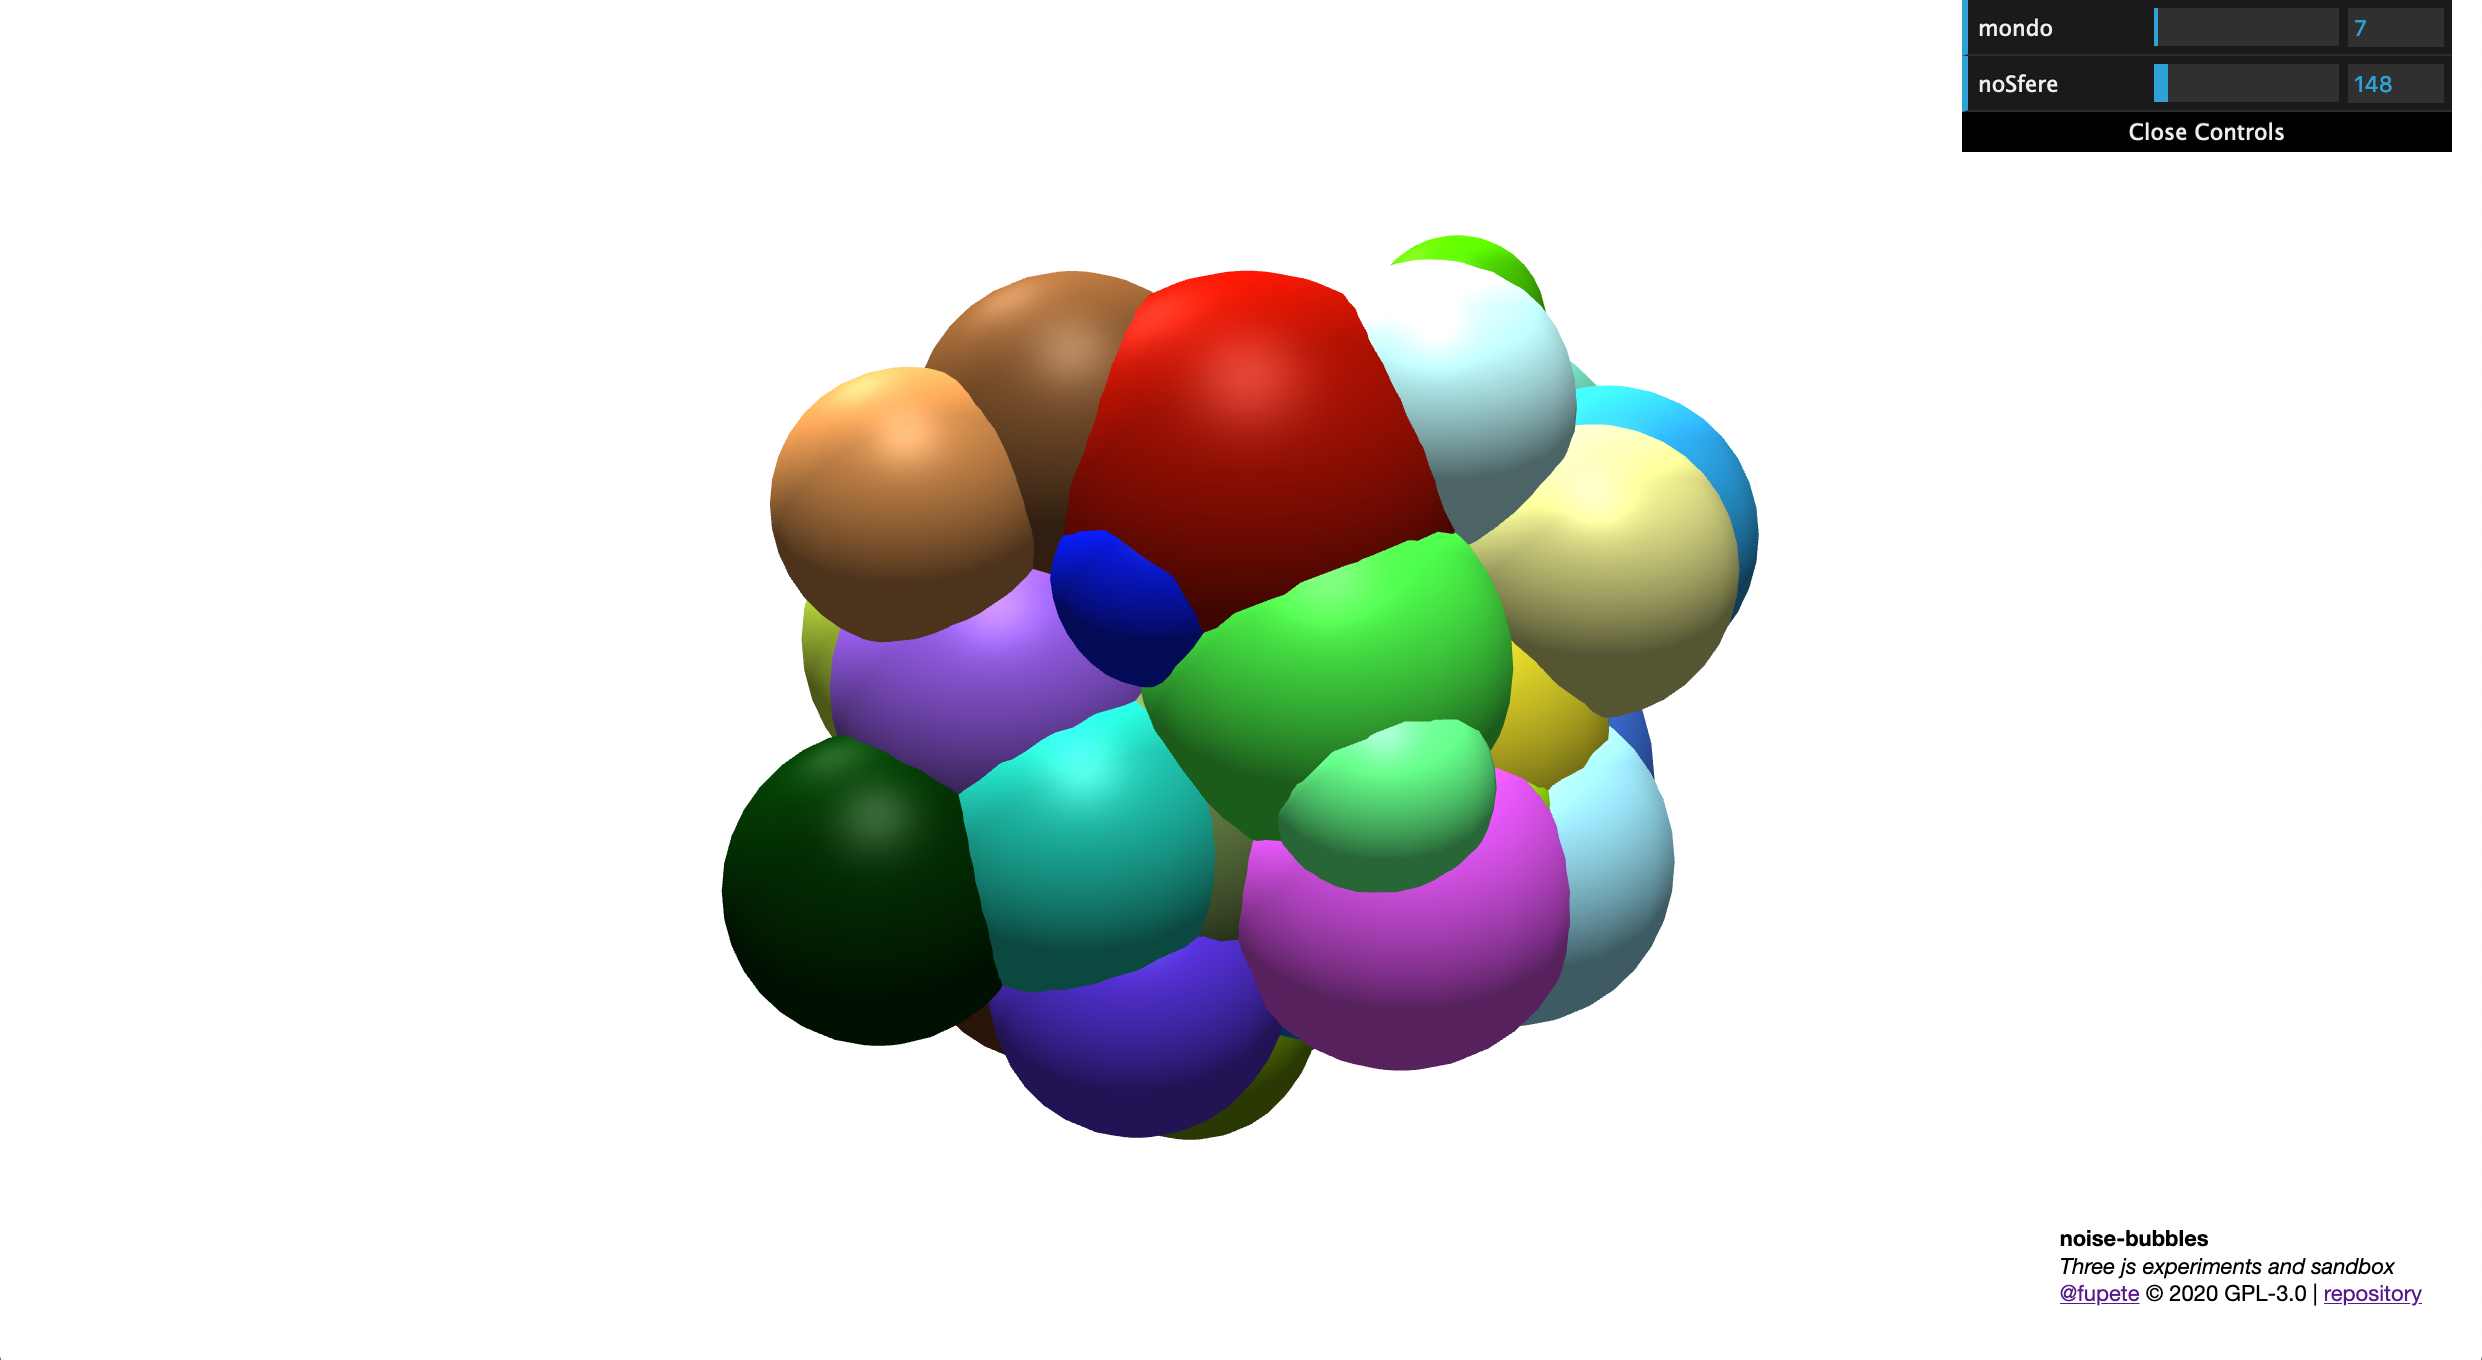
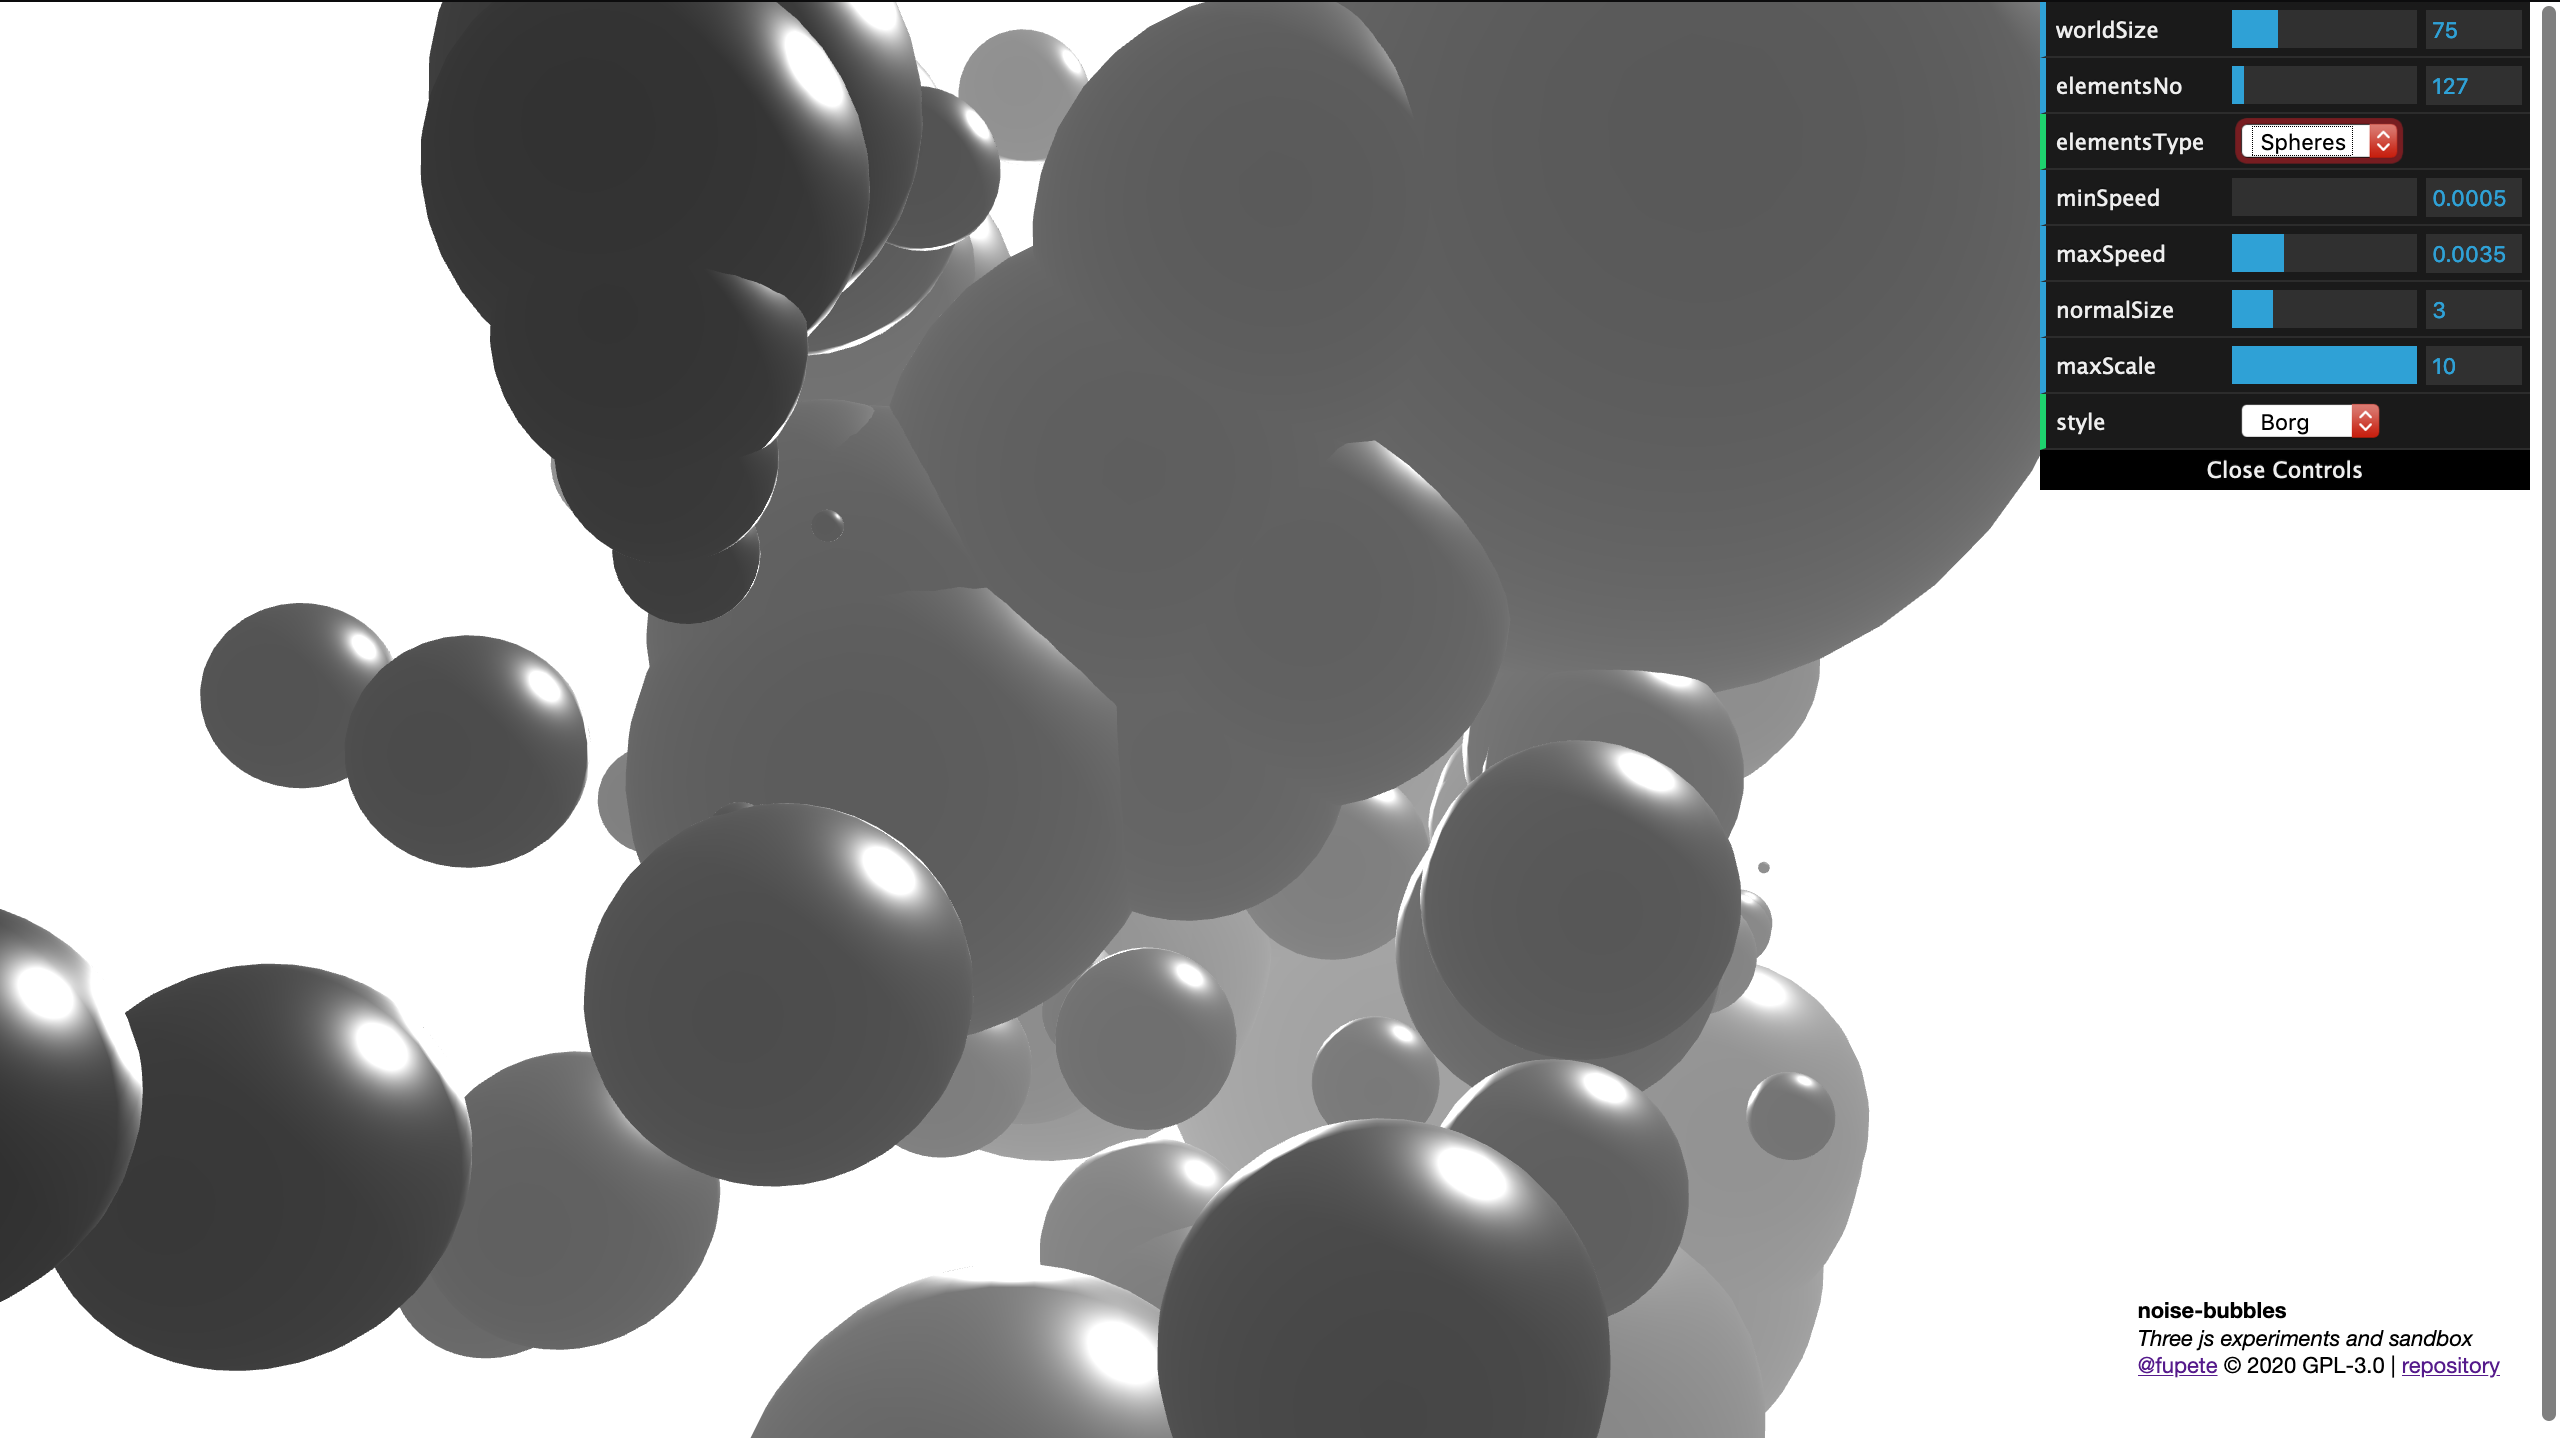
Added Borg mode. And cubes/astro... and so on. All on dat.gui upper right!

diff --git a/noise-bubbles/sketch.js b/noise-bubbles/sketch.js
@@ -20,7 +20,7 @@
 // Scene
 let scene = new THREE.Scene();
 scene.background = new THREE.Color(0xffffff);
-scene.fog = new THREE.FogExp2(new THREE.Color(0xf0f0f0), 0.001);
+scene.fog = new THREE.FogExp2(new THREE.Color(0xffffff), 0.005);
 
 // Camera
 let aspect = window.innerWidth / window.innerHeight;
@@ -94,13 +94,20 @@ scene.add(light3);
 ///////// MATERIALS
 /////////
 
+// var cubeMat = new THREE.MeshStandardMaterial({envMap: textureCube, roughness: 0.5, metalness: 1});
+
+// var cubeGeo = new THREE.BoxGeometry(2, 2, 2, 10, 10, 10);
+// var smooth = cubeGeo.clone();
+// var modifier = new THREE.SubdivisionModifier(3);
+// modifier.modify(smooth);
+// cubeGeo = smooth;
+//
+// cubeGeo.computeVertexNormals();
+
 let material = new THREE.MeshStandardMaterial({
   color: 0x676767,
-  specular: 0xfafafa,
-  shininess: 0.3,
-  // side: THREE.DoubleSide,
-  // transparent: true,
-  // opacity: 0.4
+  roughness: 0.5,
+  metalness: 1,
 }) // + material
 // Normal Lambert Phong Standard Toon
 
@@ -110,62 +117,114 @@ let material = new THREE.MeshStandardMaterial({
 
 let guiOptions = {
   // REFRESH: function() { crea(); },
-  mondo: 10,
-  noSfere: 10
+  worldSize: 10,
+  elementsNo: 10,
+  elementsType: 'A',
+  minSpeed: 0.0005,
+  maxSpeed: 0.0035,
+  style: 'A',
+  normalSize: 2,
+  maxScale: 1
 }
 
 let gui = new dat.GUI();
-gui.add(guiOptions, 'mondo', 1, 300, 1).onFinishChange(function() {
+
+gui.add(guiOptions, 'worldSize', 1, 300, 1).onFinishChange(function() {
   riCrea()
 });
-gui.add(guiOptions, 'noSfere', 1, 2000, 1).onFinishChange(function() {
+gui.add(guiOptions, 'elementsNo', 1, 2000, 1).onFinishChange(function() {
+  riCrea()
+});
+gui.add(guiOptions, 'elementsType', { Cubes: 'A', Astro: 'B', Spheres: 'C' }).onFinishChange(function() {
+  riCrea()
+});
+gui.add(guiOptions, 'minSpeed', 0.0005, 0.001, 0.00005).onFinishChange(function() {
+  riCrea()
+});
+gui.add(guiOptions, 'maxSpeed', 0.0010, 0.01, 0.0005).onFinishChange(function() {
+  riCrea()
+});
+gui.add(guiOptions, 'normalSize', 1, 10, 1).onFinishChange(function() {
+  riCrea()
+});
+gui.add(guiOptions, 'maxScale', 1, 10, 1).onFinishChange(function() {
+  riCrea()
+});
+gui.add(guiOptions, 'style', { Borg: 'A', Hippie: 'B'}).onFinishChange(function() {
   riCrea()
 });
 
-let mondo = guiOptions.mondo
-let noSfere = guiOptions.noSfere
-
-function riCrea() { // < per dat gui ...
-  for (let id=0; id<spheres.length; id++) {
-    scene.remove(spheres[id]);
-  }
-  t=[]
-  tincr=[]
-  spheres=[]
-  mondo = guiOptions.mondo
-  noSfere = guiOptions.noSfere
-  crea()
-}
+let worldSize = guiOptions.worldSize
+let elementsNo = guiOptions.elementsNo
+let minSpeed = guiOptions.minSpeed
+let maxSpeed = guiOptions.maxSpeed
+let normalSize = guiOptions.normalSize
+let maxScale = guiOptions.maxScale
 
 /////////
 ///////// GEOMETRIES
 /////////
 
-let geomSph = new THREE.SphereGeometry(2,18,18)
-let spheres = []
+let geomSph
+
+let elements = []
 let tis = []
 let tincr = []
 let colore = new THREE.Color( 0xffffff )
 
-crea()
-
 function crea() {
-  for(let id = 0; id < noSfere; id++){
-      // let colore = "0x" + Math.floor(Math.random()*16777215).toString(16)
-      colore.setHex( Math.random() * 0xffffff )
-      spheres[id] = new THREE.Mesh(geomSph, new THREE.MeshPhongMaterial({color: colore}))
-      scene.add(spheres[id])
+  let colorato = gui.__controllers[7].__select.selectedOptions[0].value
+  for(let id = 0; id < elementsNo; id++){
+      if (colorato === 'A') {
+        elements[id] = new THREE.Mesh(geomSph, material)
+      }
+      else {
+        colore.setHex( Math.random() * 0xffffff )
+        elements[id] = new THREE.Mesh(geomSph, new THREE.MeshPhongMaterial({color: colore}))
+      }
+      scene.add(elements[id])
       tis.push(id)
-      tincr.push(0.0005 + Math.random() * 0.003)
+      tincr.push(minSpeed + Math.random() * maxSpeed)
   }
 }
+
+function riCrea() { // < per dat gui ...
+  let type = gui.__controllers[2].__select.selectedOptions[0].value
+  if (type === 'A') { geomSph = new THREE.BoxGeometry(normalSize, normalSize, normalSize, 10, 10, 10) }
+  else if (type === 'B') { geomSph = new THREE.SphereGeometry(normalSize,1,1) }
+  else if (type === 'C') { geomSph = new THREE.SphereGeometry(normalSize,36,36) }
+  //
+  if (type === 'A') {
+    geomSph.computeVertexNormals();
+    var smooth = geomSph.clone();
+    var modifier = new THREE.SubdivisionModifier(3);
+    modifier.modify(smooth);
+    geomSph = smooth;
+  }
+  //
+  for (let id=0; id<elements.length; id++) {
+    scene.remove(elements[id]);
+  }
+  t=[]
+  tincr=[]
+  elements=[]
+  worldSize = guiOptions.worldSize
+  elementsNo = guiOptions.elementsNo
+  minSpeed = guiOptions.minSpeed
+  maxSpeed = guiOptions.maxSpeed
+  maxScale = guiOptions.maxScale
+  normalSize = guiOptions.normalSize
+  crea()
+}
+
+riCrea() // < let's start
 
 /////////
 ///////// SCENE/CAMERA
 /////////
 
 controls.target.set(0,0,0);
-camera.position.z = -4 * mondo;
+camera.position.z = -4 * worldSize;
 /////////
 ///////// RENDER/ANIMATION LOOP
 /////////
@@ -174,13 +233,13 @@ camera.position.z = -4 * mondo;
 let time = 0;
 let render = function() {
   requestAnimationFrame(render)
-  for(let id = 0; id < spheres.length; id++){
-    spheres[id].position.x = perlin.noise(tis[id], 0, 0) * mondo
-    spheres[id].position.y = perlin.noise(tis[id]+5, 0, 0) * mondo
-    spheres[id].position.z = perlin.noise(tis[id]+10, 0, 0) * mondo
-    spheres[id].scale.x = perlin.noise(tis[id]+15, 0, 0) + 1
-    spheres[id].scale.y = perlin.noise(tis[id]+15, 0, 0) + 1
-    spheres[id].scale.z = perlin.noise(tis[id]+15, 0, 0) + 1
+  for(let id = 0; id < elements.length; id++){
+    elements[id].position.x = perlin.noise(tis[id], 0, 0) * worldSize
+    elements[id].position.y = perlin.noise(tis[id]+5, 0, 0) * worldSize
+    elements[id].position.z = perlin.noise(tis[id]+10, 0, 0) * worldSize
+    elements[id].scale.x = perlin.noise(tis[id]+15, 0, 0) * maxScale + 1
+    elements[id].scale.y = perlin.noise(tis[id]+15, 0, 0) * maxScale + 1
+    elements[id].scale.z = perlin.noise(tis[id]+15, 0, 0) * maxScale + 1
     tis[id]+=tincr[id]
   }
   controls.update()

diff --git a/noise-bubbles/index.html b/noise-bubbles/index.html
@@ -7,6 +7,7 @@
   <script src="https://cdn.jsdelivr.net/npm/three@0.115.0/build/three.min.js"></script>
   <script src="https://cdn.jsdelivr.net/npm/three@0.115.0/examples/js/controls/OrbitControls.js"></script>
   <script src="https://cdn.jsdelivr.net/npm/three@0.115.0/examples/js/math/SimplexNoise.js"></script>
+  <script src="https://cdn.jsdelivr.net/npm/three@0.115.0/examples/js/modifiers/SubdivisionModifier.js"></script>
   <!-- <script src="https://cdn.jsdelivr.net/npm/three@0.115.0/examples/js/math/ImprovedNoise.js"></script> -->
   <script src="assets/dat.gui.min.js"></script>
 
